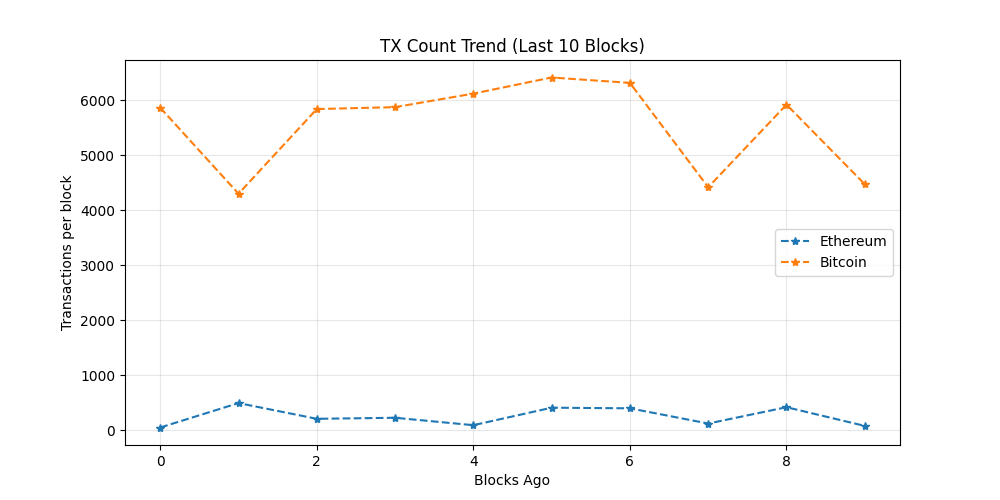
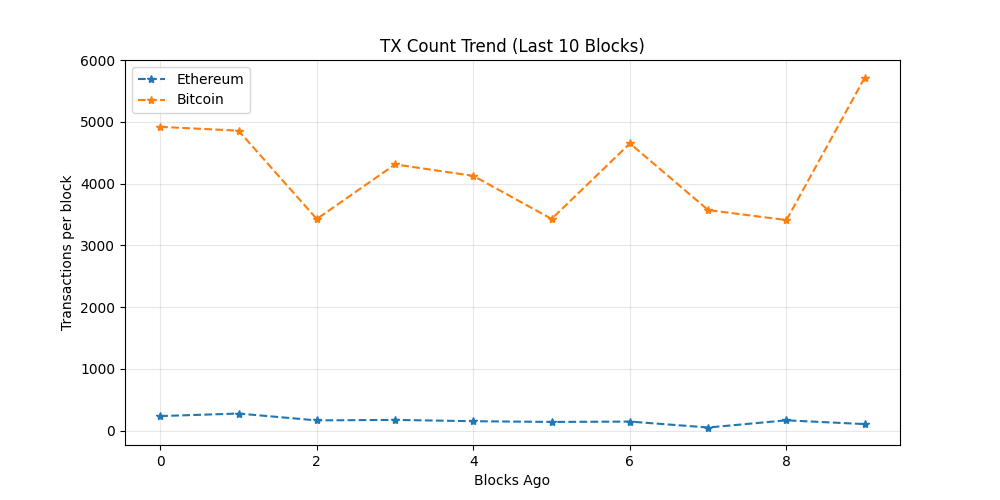
chore: update on-chain dashboard

diff --git a/README.md b/README.md
@@ -19,7 +19,7 @@ The README itself acts as the dashboard and is regenerated automatically on a 6 
 demonstrating a production-style, infrastructure-focused observability workflow rather
 than a traditional UI-driven approach.
 
-_Last updated: 2026-06-08 20:32 UTC_
+_Last updated: 2026-06-09 04:33 UTC_
 
 ## API Usage (GetBlock.io)
 - Calls used: **24**
@@ -27,8 +27,8 @@ _Last updated: 2026-06-08 20:32 UTC_
 ## Network Metrics
 | Chain | Block Height | TX Count | TPS (10 blk avg) | Block Util | Avg Fee |
 |------|-------------|----------|------------------|------------|---------|
-| Ethereum | 25275105 | 78 | 6.5 | 14.89% | 0.6 Gwei |
-| Bitcoin | 952893 | 4472 | 2.3 | 99.79% | N/A |
+| Ethereum | 25277501 | 106 | 8.83 | 24.41% | 0.1 Gwei |
+| Bitcoin | 952929 | 5718 | 13.18 | 99.8% | N/A |
 
 ## Visuals
 ### Transactions Trend
@@ -43,11 +43,7 @@ _Last updated: 2026-06-08 20:32 UTC_
 ## Whale Alerts (latest block)
 - Transaction hashes are truncated for readability.
 - Full hashes are available in `dashboards/metrics.json`
-- Bitcoin | 370.57 BTC | `7682592d056c…`
-- Bitcoin | 1423.06 BTC | `7e29742dfd69…`
-- Bitcoin | 231.4 BTC | `3e53643f3685…`
-- Bitcoin | 240.07 BTC | `979990a19e6e…`
-- Bitcoin | 299.26 BTC | `df06dce89956…`
+- Bitcoin | 369.66 BTC | `290f87d9f727…`
 
 ## Run locally
 
